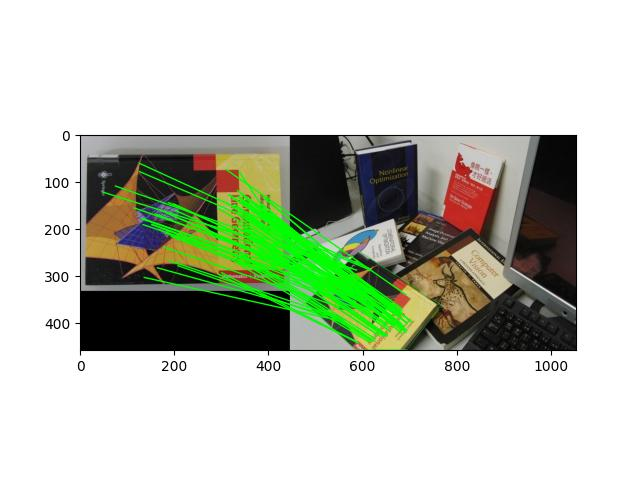
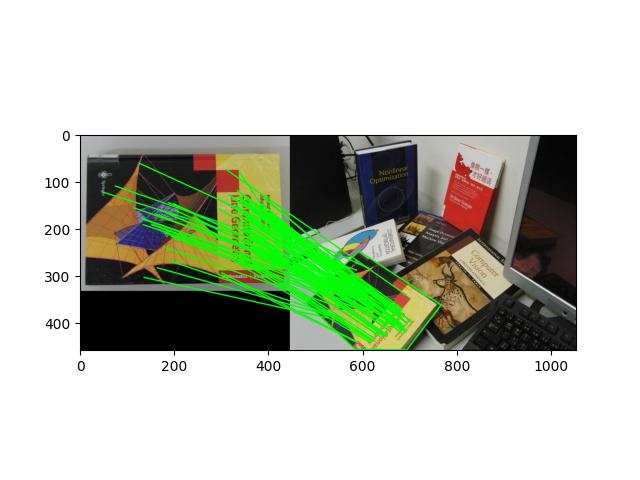
2022/12/04 23:00

diff --git a/Homework3/HW3_111062594/1/HW3-1.py b/Homework3/HW3_111062594/1/HW3-1.py
@@ -22,7 +22,7 @@ def sift_detection_and_matching(image1, image2, point, threshold):
             dis = des2-des1[i,:]
             dis = np.linalg.norm(dis, axis=1)
             arrange = np.argsort(dis).tolist()
-            if dis[arrange[0]]/dis[arrange[1]] <= threshold:
+            if dis[arrange[0]] / dis[arrange[1]] <= threshold:
                 match1.append((i,arrange[0]))
 
     match2=[]
@@ -31,7 +31,7 @@ def sift_detection_and_matching(image1, image2, point, threshold):
             dis=des1-des2[i,:]
             dis=np.linalg.norm(dis, axis=1)
             arrange =np.argsort(dis).tolist()
-            if dis[arrange[0]]/dis[arrange[1]] <= threshold:
+            if dis[arrange[0]] / dis[arrange[1]] <= threshold:
                 match2.append((arrange[0],i))
             
     match = list(set(match1).intersection(set(match2)))
@@ -60,7 +60,7 @@ def comput_obj_bbox(image, points):
 
     obj_bbox = [x_min, y_min, x_max, y_max]
 
-    cv2.polylines(img,[points],True,(0,255,0),1)
+    cv2.polylines(img,[points],True,(0,255,0), 2)
     cv2.imwrite("deviation.jpg" , img)
 
     name = "deviation.jpg"
@@ -72,7 +72,7 @@ def select_keypoints_in_bbox(descriptors, keypoints, bbox):
             pt[0] >= xmin and pt[0] <= xmax and pt[1] >= ymin and pt[1] <= ymax]
     return descriptors[indices, :], keypoints[indices, :]
 
-def ransac_homography_transformationgraphy(image1, image2, obj_bbox, num_iterations, threshold):
+def ransac_homography_transformation(image1, image2, obj_bbox, num_iterations, threshold):
 
     img1 = plt.imread(image1)
     img2 = plt.imread(image2)
@@ -91,7 +91,7 @@ def ransac_homography_transformationgraphy(image1, image2, obj_bbox, num_iterati
         kpArray2.append(kp2[i].pt)
     kpArray2 = np.array(kpArray2)
 
-    des2, kpArray2, = select_keypoints_in_bbox(des2, kpArray2, obj_bbox)
+    # des2, kpArray2, = select_keypoints_in_bbox(des2, kpArray2, obj_bbox)
 
     n = des1.shape[0]
     matches = np.empty((0,2), int)
@@ -140,7 +140,7 @@ def ransac_homography_transformationgraphy(image1, image2, obj_bbox, num_iterati
             A[i*2+1,:3] =  x2
             A[i*2+1,6:] = x1 * y1
 
-        U, S, V = np.linalg.svd(A)
+        U, S, V = np.linalg.svd(A, full_matrices=True)
         H = V[-1].reshape(3,3)
 
         reprojection_threshold = 10
@@ -186,13 +186,13 @@ if __name__ == '__main__':
     sift_detection_and_matching(image3, image, point=1000, threshold=0.8)
 
     img1, obj_bbox1 = comput_obj_bbox(image, pts1)
-    ransac_homography_transformationgraphy(image1, img1, obj_bbox1, num_iterations = 1000, threshold = 0.6)
+    ransac_homography_transformation(image1, img1, obj_bbox1, num_iterations = 1000, threshold = 0.6)
 
     img2, obj_bbox2 = comput_obj_bbox(image, pts2)
-    ransac_homography_transformationgraphy(image2, img2, obj_bbox2, num_iterations = 1000, threshold = 0.4)
+    ransac_homography_transformation(image2, img2, obj_bbox2, num_iterations = 1000, threshold = 0.4)
 
     img3, obj_bbox3 = comput_obj_bbox(image, pts3)
-    ransac_homography_transformationgraphy(image3, img3, obj_bbox3, num_iterations = 1000, threshold = 0.8)
+    ransac_homography_transformation(image3, img3, obj_bbox3, num_iterations = 1000, threshold = 0.8)
 
     img1, obj_bbox1 = comput_obj_bbox(image, pts1)
     img2, obj_bbox2 = comput_obj_bbox(img1, pts2)
